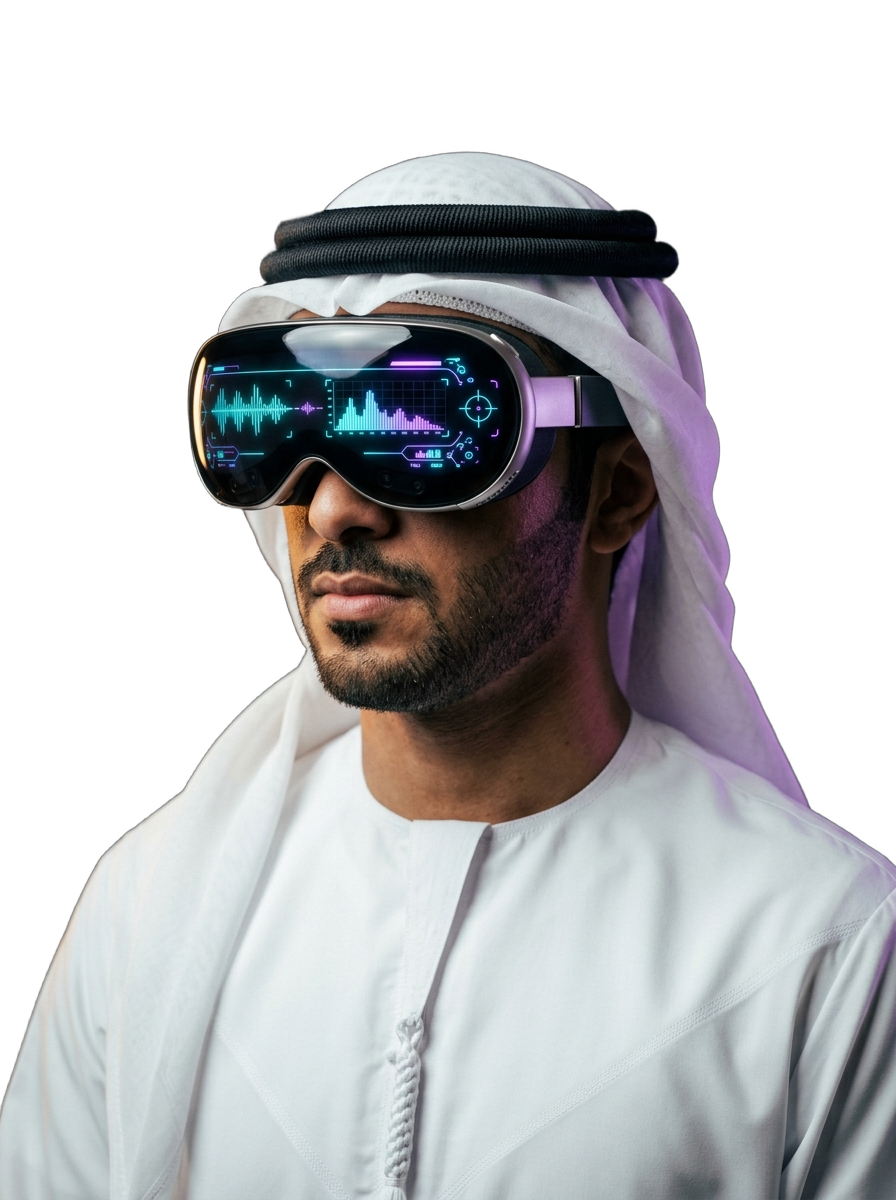
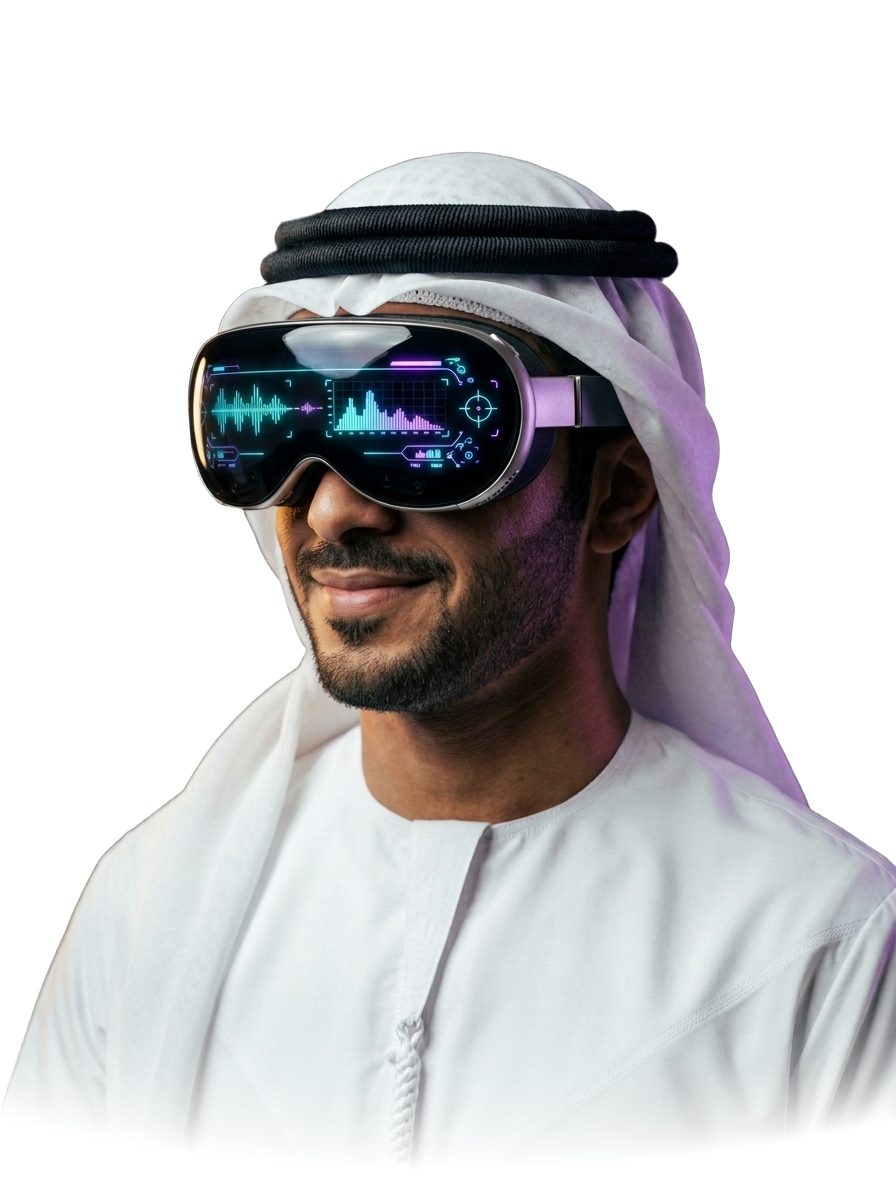
feat(hero): update creator persona with natural smile and silky dark-to-mauve pedestal gradient

Changed region(s): [[0.0, 0.8325, 1.0, 1.0], [0.2812, 0.4008, 0.5938, 0.5858]]

diff --git a/src/components/sections/HeroSection.tsx b/src/components/sections/HeroSection.tsx
@@ -113,14 +113,19 @@ export default function HeroSection() {
             {/* Main Central Persona Container with commanded scale */}
             <div className="relative w-full max-w-[300px] sm:max-w-[360px] md:max-w-[380px] lg:max-w-[460px] xl:max-w-[500px] select-none">
               
-              {/* Studio Key & Rim Light Halo Behind Character (No Badges) */}
-              <div className="absolute -inset-4 pointer-events-none -z-10">
-                {/* Atmospheric Mauve Key Light from upper right */}
-                <div className="absolute top-10 right-4 w-72 h-72 bg-brand-mauve/20 rounded-full blur-[80px]" />
-                {/* Anamorphic Violet/Magenta Rim Backlight from center-left */}
-                <div className="absolute top-1/4 left-1/2 -translate-x-1/2 w-80 h-80 bg-brand-violet/25 rounded-full blur-[90px]" />
-                {/* Grounding Stage Floor Pedestal Glow */}
-                <div className="absolute bottom-6 left-1/2 -translate-x-1/2 w-64 h-20 bg-cyan-500/10 rounded-full blur-2xl" />
+              {/* Dynamic Atmospheric Studio Lighting Behind Persona (Volumetric Breathing Lights) */}
+              <div className="absolute -inset-8 pointer-events-none -z-10 overflow-visible">
+                {/* Atmospheric Mauve Key Light - slow organic drift & scale */}
+                <div className="absolute top-4 right-0 w-80 h-80 bg-brand-mauve/25 rounded-full blur-[85px] animate-mesh-float" />
+                
+                {/* Anamorphic Violet Rim Backlight - counter-sway floating aura */}
+                <div className="absolute top-1/4 left-1/4 -translate-x-1/2 w-84 h-84 bg-brand-violet/30 rounded-full blur-[90px] animate-float-reverse" />
+                
+                {/* Soft Mauve Dynamic Focus - gentle floating breathing */}
+                <div className="absolute top-1/3 right-1/4 w-60 h-60 bg-brand-mauve-soft/20 rounded-full blur-[70px] animate-float-slow" />
+
+                {/* Grounding Stage Floor Pedestal Glow - breathing base wave */}
+                <div className="absolute -bottom-4 left-1/2 -translate-x-1/2 w-72 sm:w-84 h-24 bg-gradient-to-r from-brand-violet/25 via-cyan-500/15 to-brand-mauve/25 rounded-full blur-2xl animate-pulse-glow" />
               </div>
 
               {/* Persona Image Wrapper */}
@@ -135,11 +140,29 @@ export default function HeroSection() {
                   className="object-contain object-bottom scale-[1.03] origin-bottom transition-transform duration-700"
                 />
 
-                {/* Subtle Cinematic Lens Flare Accent across the chest */}
-                <div className="absolute inset-x-8 top-1/3 h-px bg-gradient-to-r from-transparent via-cyan-400/25 to-transparent pointer-events-none" />
+                {/* Silky-Smooth Curved Dark-to-Mauve Studio Gradient */}
+                <div
+                  aria-hidden="true"
+                  className="absolute inset-x-0 bottom-0 h-24 sm:h-28 pointer-events-none overflow-hidden"
+                >
+                  {/* Layer 1: Silky non-linear curve from translucent dark to radiant mauve */}
+                  <div
+                    className="absolute inset-0"
+                    style={{
+                      background:
+                        "radial-gradient(ellipse 140% 100% at 50% 100%, rgba(12, 9, 18, 0.75) 0%, rgba(12, 9, 18, 0.42) 24%, rgba(84, 37, 104, 0.26) 48%, rgba(152, 123, 165, 0.2) 70%, rgba(152, 123, 165, 0.06) 88%, transparent 100%)",
+                    }}
+                  />
 
-                {/* Gentle fade only at the very bottom edge of the torso */}
-                <div className="absolute inset-x-0 bottom-0 h-16 bg-gradient-to-t from-background via-background/40 to-transparent pointer-events-none" />
+                  {/* Layer 2: Soft Mauve Studio Luminescence (Airy & Delicate) */}
+                  <div
+                    className="absolute -bottom-2 inset-x-8 h-16 rounded-full blur-xl pointer-events-none opacity-80"
+                    style={{
+                      background:
+                        "radial-gradient(ellipse 90% 70% at 50% 100%, rgba(152, 123, 165, 0.25) 0%, rgba(118, 80, 134, 0.1) 50%, transparent 80%)",
+                    }}
+                  />
+                </div>
               </div>
 
               {/* 3D Solar System Orbit around the head */}
